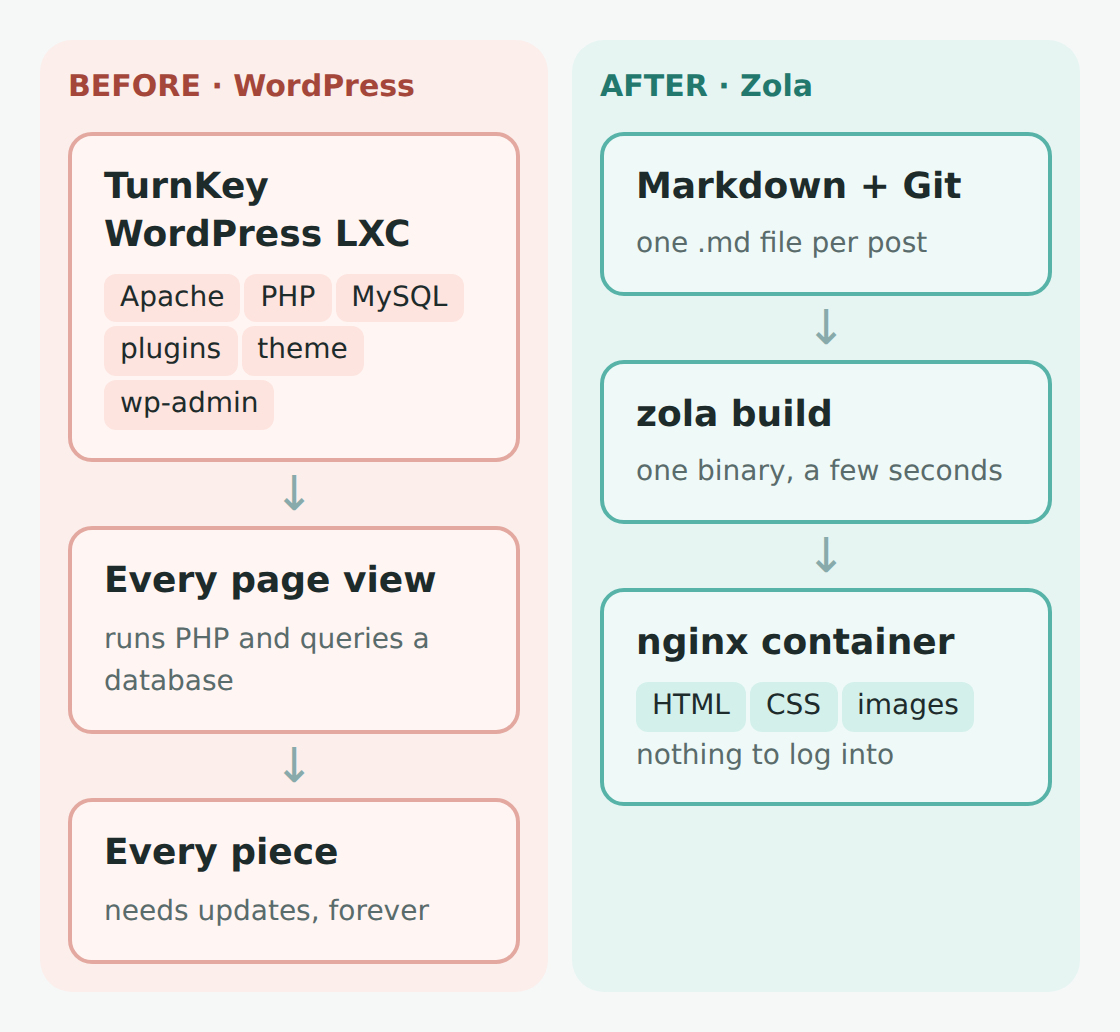
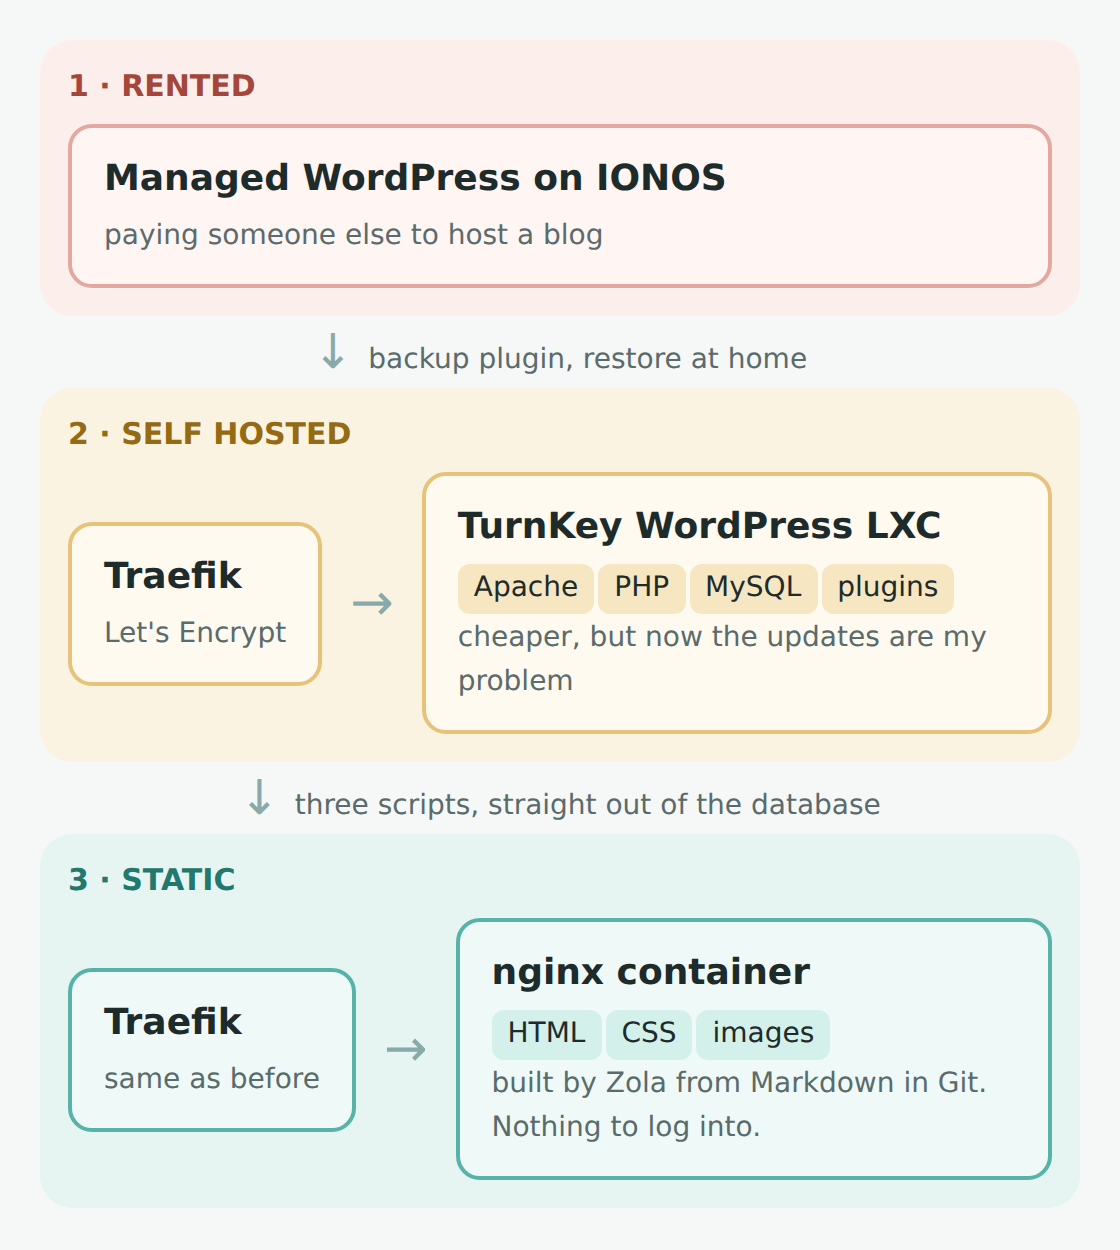
Post: real hosting history, Linux Unplugged credit, actual nginx rules
IONOS -> self-hosted TurnKey LXC behind Traefik -> Zola, with a redrawn
three-stage diagram. Uses the site's real date-archive regex and adds a
short section on the feed redirect and 410s for WordPress endpoints.

Claude-Session: https://claude.ai/code/session_0149ASg835ntmdkfotwfjgnN

Changed region(s): [[0.0625, 0.062, 0.9375, 0.9612], [0.8125, 0.8372, 0.875, 0.8682]]

diff --git a/content/posts/goodbye-wordpress-hello-zola.md b/content/posts/goodbye-wordpress-hello-zola.md
@@ -11,18 +11,22 @@ tag = ["home lab", "wordpress", "zola"]
 
 It has been a while. My last post was the [email backup update](/making-an-automatic-email-backup-updated-9-15-2024) back in September 2024, and since then this blog has mostly just... sat there. Running. Asking me for updates.
 
-That last part is the problem. This site lived in a TurnKey WordPress LXC on my Proxmox box. WordPress, Apache, PHP, MySQL, a theme, and a handful of plugins, all of which needed updating constantly to serve a few posts that almost never change. Every time I logged in there was a new red bubble asking me to update something.
+That last part is the problem.
 
-So I finally did what I should have done years ago: I turned it into a static site. If you're reading this, you're looking at it.
+When I started this blog, it lived in a managed WordPress container on IONOS. Eventually it dawned on me that I already self host basically everything else, and I already had Traefik with Let's Encrypt certificates set up. Why was I paying someone else to host a blog? So I used a backup plugin to pack the whole site up, brought it home, and restored it into a TurnKey Linux WordPress LXC sitting behind Traefik.
 
-![Before: a WordPress LXC running Apache, PHP, MySQL and plugins. After: Markdown files built by Zola and served as plain files by an nginx container](/img/2026/10/before-after.png)
-*Same blog, a lot fewer moving parts*
+That saved some money, but now *I* was the one keeping WordPress, Apache, PHP, MySQL, a theme, and a handful of plugins up to date, all to serve a few posts that almost never change. Every time I logged in there was a new red bubble asking me to update something.
+
+Then I was listening to [Linux Unplugged episode 683](https://linuxunplugged.com/683), heard them talking about Zola, and figured it was worth a shot. If you're reading this, you're looking at the result.
+
+![Three stages of this blog: managed WordPress on IONOS, then a TurnKey WordPress LXC behind Traefik at home, and now Zola's static files served by an nginx container behind the same Traefik](/img/2026/10/before-after.png)
+*Same blog, three homes, a lot fewer moving parts*
 
 ## Why Zola
 
 A static site generator takes a folder of Markdown files and spits out plain HTML. No database, no PHP, no admin login for bots to hammer on. The web server just hands out files.
 
-There are a lot of these ([Hugo](https://gohugo.io/), [Jekyll](https://jekyllrb.com/), etc.), but I went with [Zola](https://www.getzola.org/). It's a single binary with no dependencies, it builds this whole site in a few seconds, and I already had it running in a docker container from a practice site I had been playing with.
+There are a lot of these ([Hugo](https://gohugo.io/), [Jekyll](https://jekyllrb.com/), etc.), but I went with [Zola](https://www.getzola.org/). It's a single binary with no dependencies, and it builds this whole site in a few seconds. I tried it out on a practice site first before committing to moving this one.
 
 For the theme, I went with [tabi](https://github.com/welpo/tabi). I had been using a different theme on the practice site, but when I actually counted, this blog has **110 code blocks** and **64 images**. It's basically a pile of config files with some words in between. tabi comes with search, tag and category pages, and syntax highlighting with a copy button already built in. The other theme would have needed all three made by hand.
 
@@ -38,7 +42,7 @@ Since I have root on the container, I skipped all that. [WP-CLI](https://wp-cli.
 ![The migration pipeline: MySQL, then wp-recon.sh, then wp2zola.py, then postfix.py, then Zola with the tabi theme](/img/2026/10/pipeline.png)
 *The whole migration, start to finish*
 
-I'll be honest, I did not sit down and write a block-aware WordPress converter in Python by myself. I worked through this with Claude (the AI), which wrote most of the scripts while I made the decisions, ran things, and broke things. Fitting for a blog called The Helpful Idiot.
+I'll be honest, I did not sit down and write a block-aware WordPress converter in Python by myself. I leaned on Claude (the AI) pretty heavily for this whole project. It wrote most of the scripts, and I made the decisions, ran things, and broke things. Seems fitting for a blog called The Helpful Idiot.
 
 ## Look Before You Leap
 
@@ -51,7 +55,7 @@ The first script, `wp-recon.sh`, doesn't change anything. It just surveys what's
 | 146M of uploads to move | ~95M. The other 51M was GeoIP databases from a stats plugin |
 | A quick find-and-replace for my server's local IP | It shows up 11 times, and some of those are *supposed* to be there |
 
-That last one is the best example. The WordPress container's local IP had leaked into a few posts through image links. The first suggestion was a database-wide search-and-replace. But recon showed that same IP is also sitting inside a few of my tutorials as a perfectly legitimate example config value. A blind find-and-replace would have quietly broken the instructions people actually copy and paste.
+That last one is the best example. The WordPress container's local IP had leaked into a few posts through image links. Claude's first suggestion was a database-wide search-and-replace. But recon showed that same IP is also sitting inside a few of my tutorials as a perfectly legitimate example config value. A blind find-and-replace would have quietly broken the instructions people actually copy and paste.
 
 So instead, the converter only rewrites URLs inside image, link, and file blocks, and leaves code blocks byte-for-byte identical.
 
@@ -116,17 +120,35 @@ tabi ships with a strict Content Security Policy, which basically tells the brow
 
 ### nginx doesn't like curly braces either
 
-Old WordPress date archive links (`/2021/09/` and so on) now redirect to the [archive page](/archive). My first attempt broke the nginx config, because nginx reads `{` as the start of a block, even inside a regex. The regex needs quotes:
+The old sidebar linked to WordPress's monthly archives (`/2021/09/` and so on), and Google has those indexed. Zola doesn't make those pages, so they redirect to the [archive page](/archive) instead. My first attempt broke the nginx config, because nginx reads `{` as the start of a block, even inside a regex. The whole regex needs to be in quotes:
 
 ```nginx
-# Broken: nginx thinks {4} starts a block
-location ~ ^/[0-9]{4}/ { return 301 /archive/; }
-
-# Works
-location ~ "^/[0-9]{4}/" { return 301 /archive/; }
+location ~ "^/[0-9]{4}(/[0-9]{2})?(/[0-9]{2})?/?$" { return 301 /archive/; }
 ```
 
 Lesson learned (again): run `nginx -t` *before* restarting, not after.
+
+## Keeping Old Links Alive
+
+Everything that matters (posts, categories, tags, page 2, images) has the exact same URL as before, so it needs no rules at all. The nginx config in front of the site only has to deal with the WordPress leftovers.
+
+The most important one is the feed, since WordPress served it at `/feed/` and people actually subscribe to it:
+
+```nginx
+location = /feed  { return 301 /rss.xml; }
+location = /feed/ { return 301 /rss.xml; }
+```
+
+The rest is WordPress's admin and login pages. Bots probe these constantly, and they now get a `410 Gone` instead of a login page:
+
+```nginx
+location ^~ /wp-admin    { return 410; }
+location ^~ /wp-includes { return 410; }
+location = /wp-login.php { return 410; }
+location = /xmlrpc.php   { return 410; }
+```
+
+`410` tells search engines the page is gone for good, and it's a tiny response instead of a full styled 404 page for every bot that comes knocking. Just be careful not to block all of `/wp-content/`, since that's where every image on this site still lives.
 
 ## Cleaning Up
 
